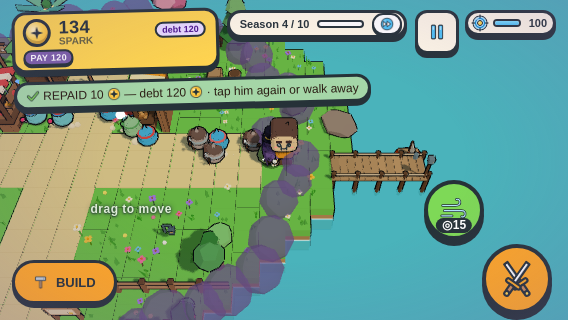
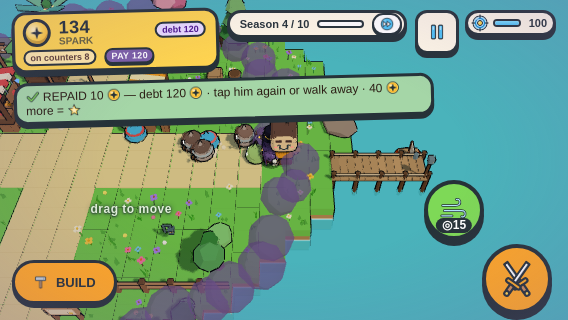
WIP ?: S87: pier chip says 'pay it all + repay N = star' when forced debt stands; tests

diff --git a/LUMEN/game/ui/hud.js b/LUMEN/game/ui/hud.js
@@ -48,7 +48,7 @@ export function mountHUD(root, opts = {}) {
   // enough in the pouch -> 'pay it all = ★' ; not enough -> how many more ✦ they would need (they can still walk off and sell? no: clock is held, so be honest).
   const pierChipDue = () => { const P = st.pier; if (!P) return; const sec = Math.ceil(P.left), cant = P.interest > 0 && !P.canPay;
     const need = Math.max(0, Math.ceil(P.need ?? (P.interest - (P.spark || 0))));
-    const hint = P.interest <= 0 ? 'repay? ' : cant ? ` · need ${need} more${(P.jar | 0) > 0 ? ' · jar ↩ helps' : ''}` : ' · pay it all = ★';   // S72: live 'need N more' - the season sweep already emptied the tills, so the fix is a jar withdraw (↩) or a tip coin
+    const hint = P.interest <= 0 ? 'repay? ' : cant ? ` · need ${need} more${(P.jar | 0) > 0 ? ' · jar ↩ helps' : ''}` : (P.hold > 0 ? ` · pay it all + repay ${P.hold} = ★` : ' · pay it all = ★');   // S87: forced debt (upkeep the pouch could not cover) must be repaid too, say so   // S72: live 'need N more' - the season sweep already emptied the tills, so the fix is a jar withdraw (↩) or a tip coin
     pierChip.classList.toggle('short', cant);
     pierChip.innerHTML = iconize(P.interest > 0 ? `⚓ BARON AT THE PIER — ${P.interest} ✦ due${hint} · ${sec} s` : `⚓ BARON AT THE PIER — repay? · ${sec} s`); placeChips(); };
   // S72: the generic chip stack (want hint, storm, NEW) sits at a fixed top; a wrapped pier chip used to be drawn over it. Push the stack below the pier chip while it shows.
@@ -212,8 +212,8 @@ export function mountHUD(root, opts = {}) {
       if (p.want) { const ws = [...chips.children].filter((n) => n.classList?.contains('ll-chip-want') && n !== old); while (ws.length > 1) ws.shift().remove(); }   // at most 2 want chips at once (the new one + the newest old one)
       const icons = p.icons || (p.want ? ['face_glimmer_sad', WANT_ICON[p.want] || 'think', 'hammer'] : CHIP_ICONS[p.id] || (p.icon ? [p.icon] : ['chat']));   // S77-B: ICON-ONLY speech (the words stay as a screen-reader label)
       cloudSay(p.id, icons, { text: p.text || p.id, num: p.num, tone: p.tone, cls: (p.want ? 'll-chip-want ' : '') + (p.alert ? 'll-chip-alert ' : '') + (p.cls || ''), ms: Math.min(5000, p.ttl > 0 ? p.ttl * 1000 : 5000) }); }),   // S71: ttl = self-removing chip (want hint) · S59-I: `alert` glow
-    bus.on('pier:due', (p) => { st.pier = { interest: p?.interest || 0, left: p?.waitCap ?? 20, repay: false, spark: p?.spark ?? 0, canPay: p?.canPay !== false, jar: p?.jar || 0 }; pierChip.hidden = false; pierChip.classList.remove('repay'); pierChipDue(); }),
-    bus.on('pier:pouch', (p) => { if (!st.pier || st.pier.repay || !p) return; st.pier.canPay = !!p.canPay; st.pier.need = p.need; st.pier.spark = p.spark; st.pier.jar = p.jar || 0; pierChipDue(); }),   // S72
+    bus.on('pier:due', (p) => { st.pier = { hold: p?.holdNeed | 0, interest: p?.interest || 0, left: p?.waitCap ?? 20, repay: false, spark: p?.spark ?? 0, canPay: p?.canPay !== false, jar: p?.jar || 0 }; pierChip.hidden = false; pierChip.classList.remove('repay'); pierChipDue(); }),
+    bus.on('pier:pouch', (p) => { if (!st.pier || st.pier.repay || !p) return; st.pier.hold = p.holdNeed | 0; st.pier.canPay = !!p.canPay; st.pier.need = p.need; st.pier.spark = p.spark; st.pier.jar = p.jar || 0; pierChipDue(); }),   // S72
     bus.on('pier:tick', (p) => { if (!st.pier || st.pier.repay || !p) return; st.pier.left = p.left; pierChipDue(); }),
     bus.on('pier:seek', () => { if (!st.pier) return; st.pier.repay = true; pierChip.classList.remove('short'); pierChip.classList.add('repay'); pierChip.innerHTML = iconize('⚓ THE BARON IS COMING TO COLLECT — stand your ground'); placeChips(); }),   // S85: the wait ran out -> he walks to Pip, nothing is taken from afar
     bus.on('pier:paid', (pp) => { if (!st.pier) return; st.pier.hold = pp?.holdNeed | 0; st.pier.repay = true; pierChip.classList.remove('short'); pierChip.classList.add('repay');   // S87: a chip that was red (short) must turn green once he is paid

diff --git a/LUMEN/game/src/systems/baronPier.js b/LUMEN/game/src/systems/baronPier.js
@@ -68,7 +68,7 @@ export function createBaronPier(deps = {}) {
     anim.faceTo?.(new THREE.Vector3(B.to.x, 0, B.to.z)); anim.play?.('strut');
     B.active = true; B.phase = 'arrive'; B.t = 0; B.lastTick = -1; B.idle = 0; B.tauntT = 1.2; B.settled = false; B.season = s.season;
     B.interest = owed; B.canPay = (s.spark || 0) + 1e-9 >= owed; B.grace = PIER.graceMax; B.paid = 0; B.shortfall = 0; B.repaid = 0; B.stats.visits++;
-    bus.emit('pier:due', { interest: owed, debt: s.debt, pos: { ...B.to }, season: s.season, waitCap: PIER.waitCap, spark: Math.round(s.spark || 0), canPay: (s.spark || 0) + 1e-9 >= owed, jar: jarCash() });   // S71: canPay → the HUD hint 'pay it all = ★' / 'need N more'
+    bus.emit('pier:due', { interest: owed, debt: s.debt, pos: { ...B.to }, season: s.season, waitCap: PIER.waitCap, spark: Math.round(s.spark || 0), canPay: (s.spark || 0) + 1e-9 >= owed, jar: jarCash(), holdNeed: holdNeed() });   // S71: canPay → the HUD hint 'pay it all = ★' / 'need N more'
     return true;
   };
 
@@ -163,7 +163,7 @@ export function createBaronPier(deps = {}) {
     const spark = Math.round(eco.state.spark || 0), can = eco.state.spark + 1e-9 >= B.interest;
     if (B.phase === 'wait' && !B.canPay && p?.delta > 0 && B.grace > 0) { const add = Math.min(PIER.graceStep, B.grace, B.t); if (add > 0) { B.grace -= add; B.t -= add; bus.emit('pier:grace', { added: add, left: B.grace }); } }   // only time really given back is charged to the grace budget
     B.canPay = can;
-    bus.emit('pier:pouch', { spark, interest: B.interest, canPay: can, jar: jarCash(), need: Math.max(0, Math.ceil(B.interest - eco.state.spark - 1e-9)) });
+    bus.emit('pier:pouch', { spark, interest: B.interest, canPay: can, holdNeed: holdNeed(), jar: jarCash(), need: Math.max(0, Math.ceil(B.interest - eco.state.spark - 1e-9)) });
   }));
   offs.push(bus.on('eco:win', () => B.destroyVisit())); offs.push(bus.on('eco:lose', () => B.destroyVisit()));
   B.destroyVisit = () => { B.active = false; B.phase = 'off'; remove(); };
